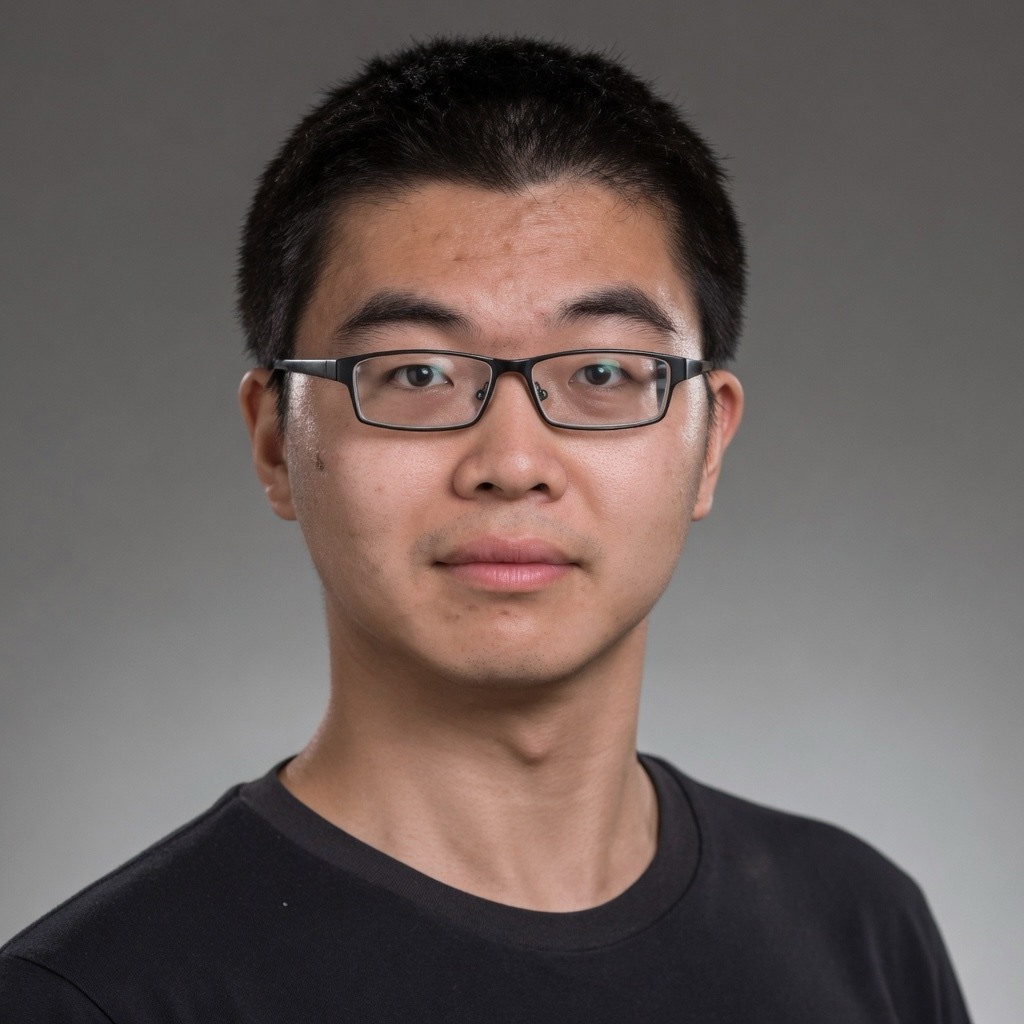
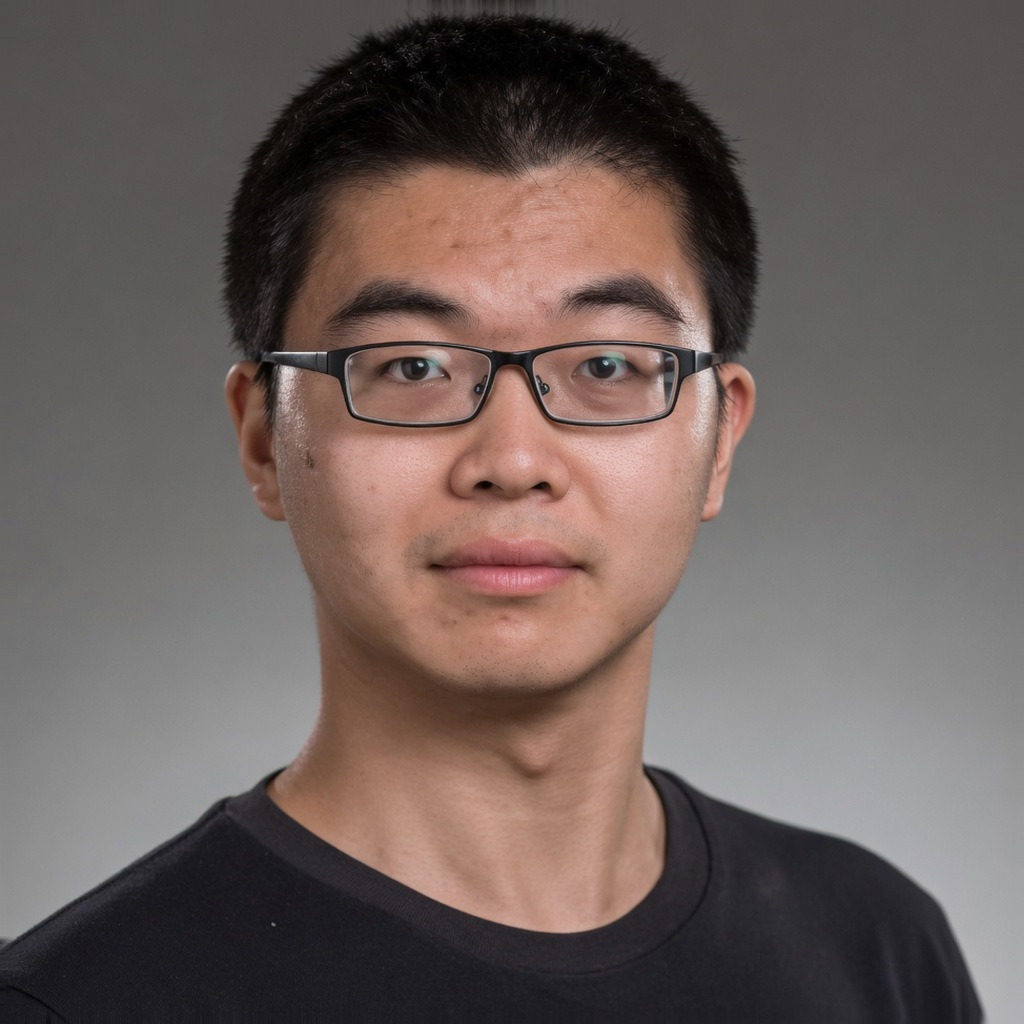
Remove white edge on profile photo
Drop image border-radius and slightly crop/clean the portrait rim so
no light fringe appears against the page background.

diff --git a/styles.css b/styles.css
@@ -251,10 +251,16 @@ a:hover, a:focus { color: var(--link-hover); }
 
 .portrait {
   width: 100%;
-  border-radius: 12px;
+  border-radius: 0;
   aspect-ratio: 1;
   object-fit: cover;
+  object-position: center top;
   display: block;
+  border: none;
+  outline: none;
+  box-shadow: none;
+  background: transparent;
+  vertical-align: top;
 }
 
 /* ===== Sections ===== */